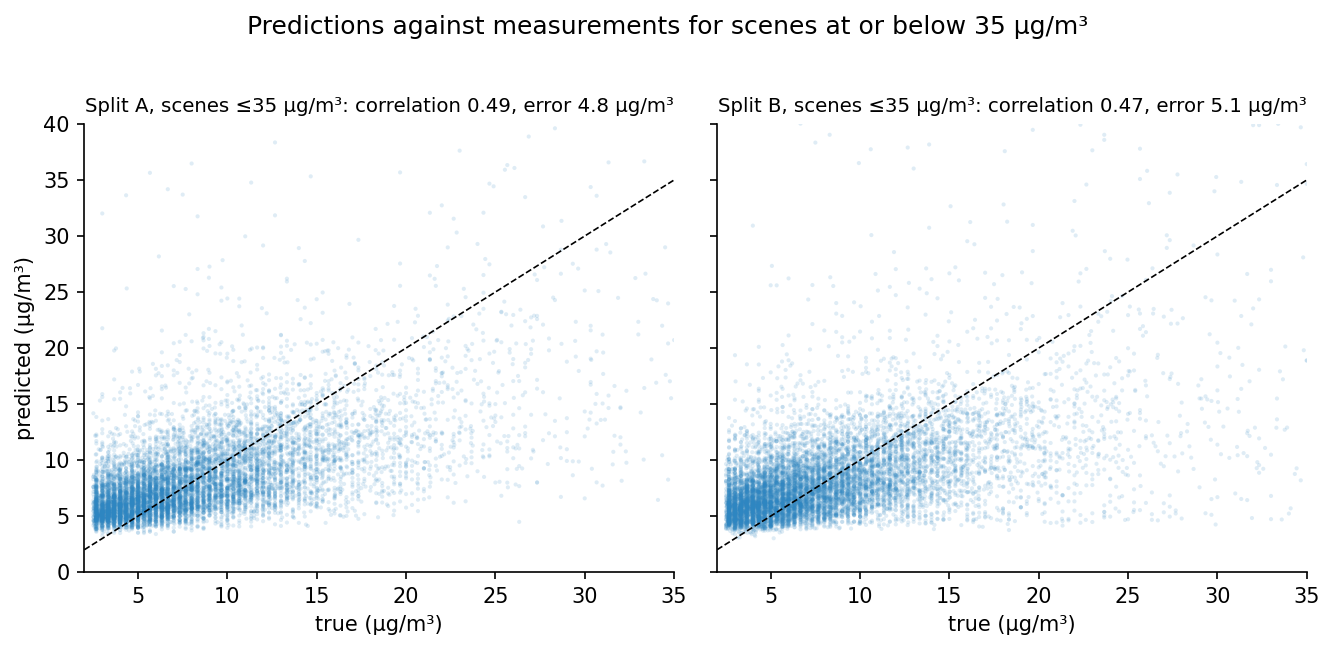
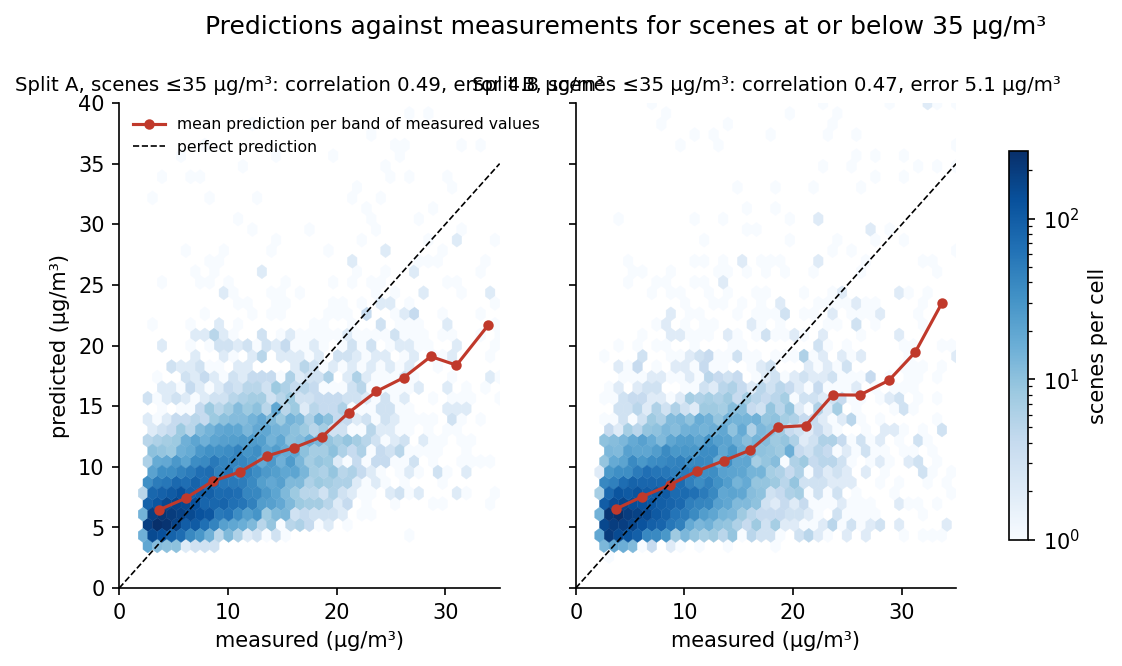
Figure 4.9 in the density style with the mean-prediction line

diff --git a/scripts/11_figures.py b/scripts/11_figures.py
@@ -903,13 +903,19 @@ def fig41():  # clean-range floor
         b = blend(runs); c = b[b.y_true <= 35]
         cc = c.assign(t=c.y_true - c.groupby("station_id").y_true.transform("mean"), p=c.y_pred - c.groupby("station_id").y_pred.transform("mean"))
         wic = f"correlation {np.corrcoef(cc.t, cc.p)[0, 1]:.2f}, error {np.sqrt(((cc.p - cc.t) ** 2).mean()):.1f} µg/m³"
-        ax.scatter(c.y_true, c.y_pred, s=4, alpha=0.15, color=BLUE, edgecolors="none")
-        ax.plot([2, 35], [2, 35], "k--", lw=0.8); ax.set_xlim(2, 35); ax.set_ylim(0, 40)
+        hb = ax.hexbin(c.y_true, c.y_pred, gridsize=40, extent=(0, 35, 0, 40), cmap="Blues", mincnt=1, bins="log", linewidths=0.2)
+        edges = np.arange(0, 37.5, 2.5); mids, means = [], []
+        for lo, hi in zip(edges[:-1], edges[1:]):
+            d = c[(c.y_true >= lo) & (c.y_true < hi)]
+            if len(d) >= 10: mids.append(d.y_true.mean()); means.append(d.y_pred.mean())
+        ax.plot(mids, means, "o-", color=RED, ms=4, lw=1.5, label="mean prediction per band of measured values")
+        ax.plot([0, 35], [0, 35], "k--", lw=0.8, label="perfect prediction"); ax.set_xlim(0, 35); ax.set_ylim(0, 40)
         ax.set_title(f"{sp}, scenes ≤35 µg/m³: {wic}", fontsize=9.5)
-        ax.set_xlabel("true (µg/m³)")
-    axes[0].set_ylabel("predicted (µg/m³)")
+        ax.set_xlabel("measured (µg/m³)")
+    axes[0].set_ylabel("predicted (µg/m³)"); axes[0].legend(loc="upper left", fontsize=7.5, frameon=False)
+    fig.colorbar(hb, ax=axes, label="scenes per cell", shrink=0.8)
     fig.suptitle("Predictions against measurements for scenes at or below 35 µg/m³", y=1.02)
-    save(fig, "fig41_clean_range_floor.png")
+    fig.savefig(FIG / "fig41_clean_range_floor.png", bbox_inches="tight"); plt.close(fig)
 
 
 
